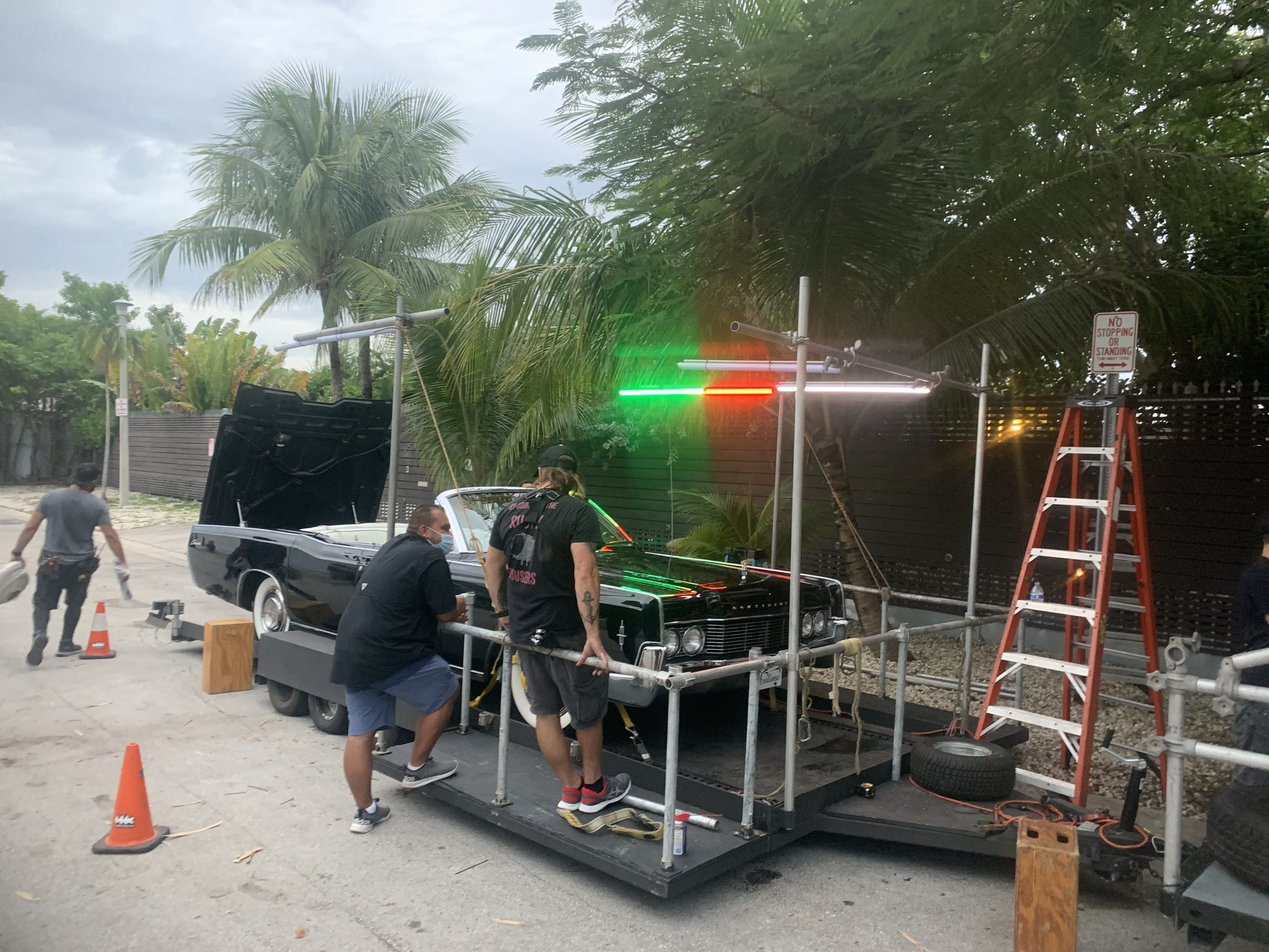
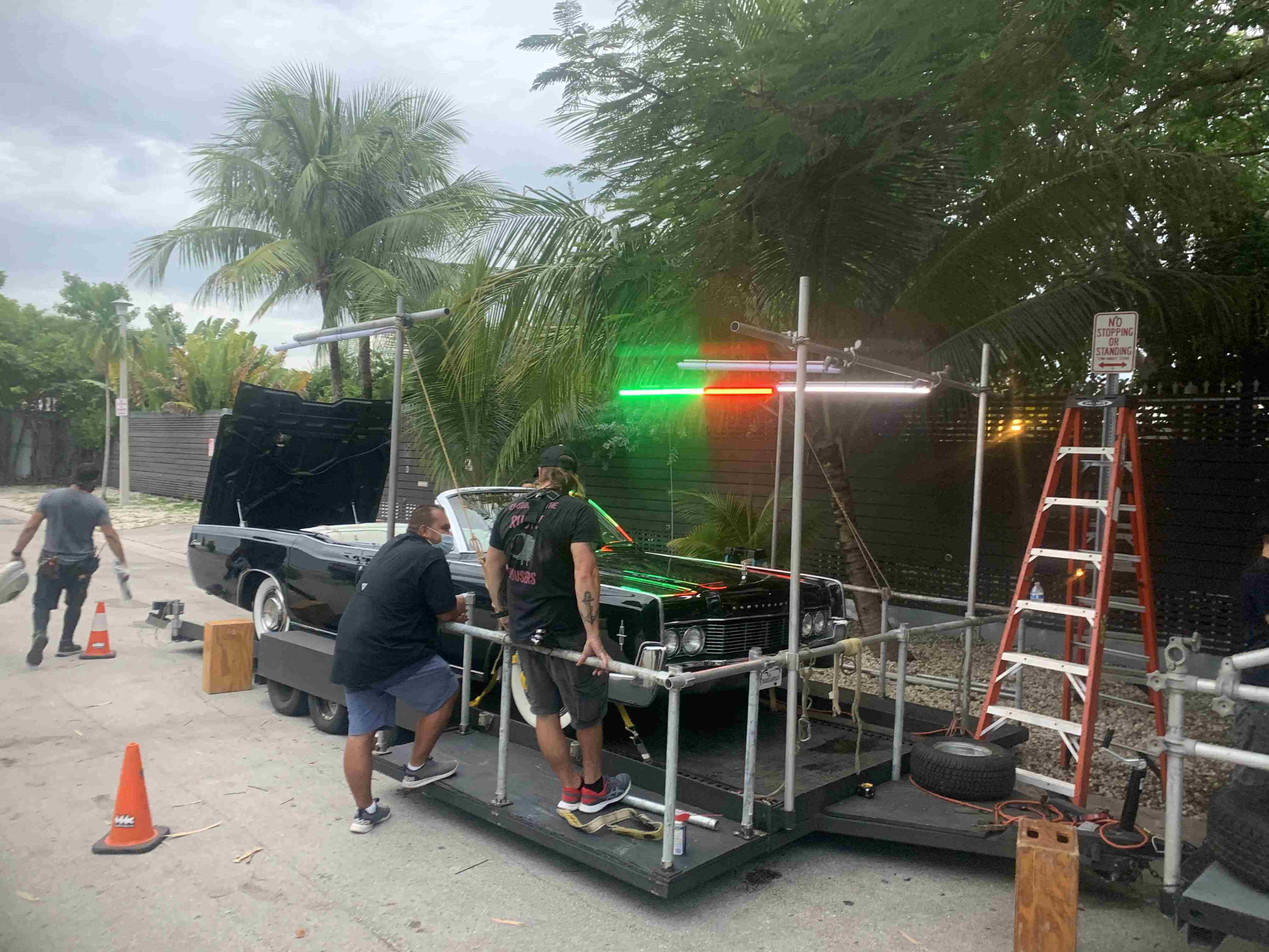
optimizing images

diff --git a/src/images/BarreledImages.js b/src/images/BarreledImages.js
@@ -7,15 +7,15 @@ import Drone3D_1 from './3d-drone.png'
 import SixtyFooter from './sixty-foot-crane.png'
 import SixtyFooter2 from './sixty-foot-crane-2.png'
 import DownArrow from './down-arrow.png'
-import ShotcallaWings from './shotcalla-wings.png'
-import ShotcallaFloating from './shotcalla-floating.png'
+import ShotcallaWings from './shotcalla-wings.jpg'
+import ShotcallaFloating from './shotcalla-floating.jpg'
 import TowDolly from './tow-dolly-converted.jpg'
 import TowDolly2 from './tow-dolly-converted(2).jpg'
 import PT2 from './processtrailer1.jpg'
 import PT3 from './processtrailer2.jpg'
 import PT4 from './processtrailer3.jpg'
 import PT5 from './processtrailer4.jpg'
-import ShotcallaOnBeach from './shotcalla-on-beach_result.jpg'
+import ShotcallaOnBeach from './shotcalla-on-beach.jpg'
 
 let images = {
    BeachedShotcalla,

diff --git a/src/components/tools/tools.js b/src/components/tools/tools.js
@@ -110,7 +110,7 @@ export default class Tools extends React.Component {
 
                             </Carousel>
                         </a>
-                        <h6>Our Aerials are solely operated by our sister company XCam Aerials. Click the link to visit the <a href="http://xcamaerials.com/" target="_blank" rel="noopener noreferrer">XCam Aerials</a> website.</h6>
+                        <p>Our Aerials are solely operated by our sister company XCam Aerials. You can visit XCam Aerial's website <a href="http://xcamaerials.com/" target="_blank" rel="noopener noreferrer">here</a></p>
 
                     </div>
                     <div className="photoboats" id='cameracar'>

diff --git a/src/components/tools/ToolsArrays.js b/src/components/tools/ToolsArrays.js
@@ -1,6 +1,6 @@
-import PBJ from '../../images/pbj.png'
+import PBJ from '../../images/pbj.jpg'
 import Pontoon from '../../images/pontoon.png'
-import TritonArm from '../../images/triton-arm.png'
+import TritonArm from '../../images/triton-arm.jpg'
 import SixtyFooter from '../../images/sixty-foot-crane.png'
 import images from '../../images/BarreledImages'
 
